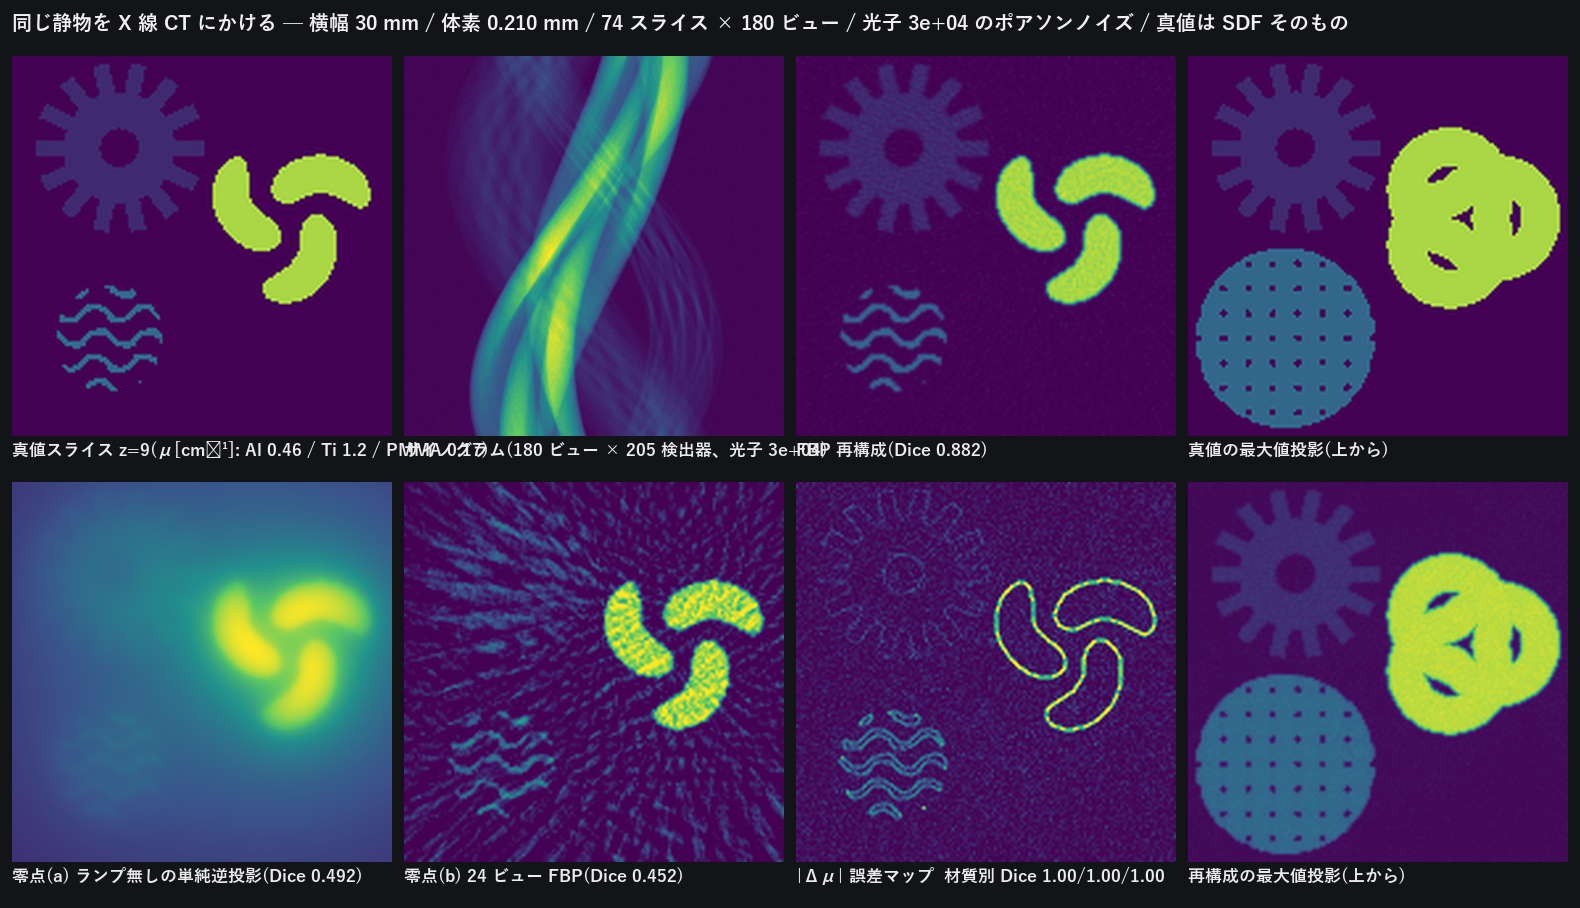
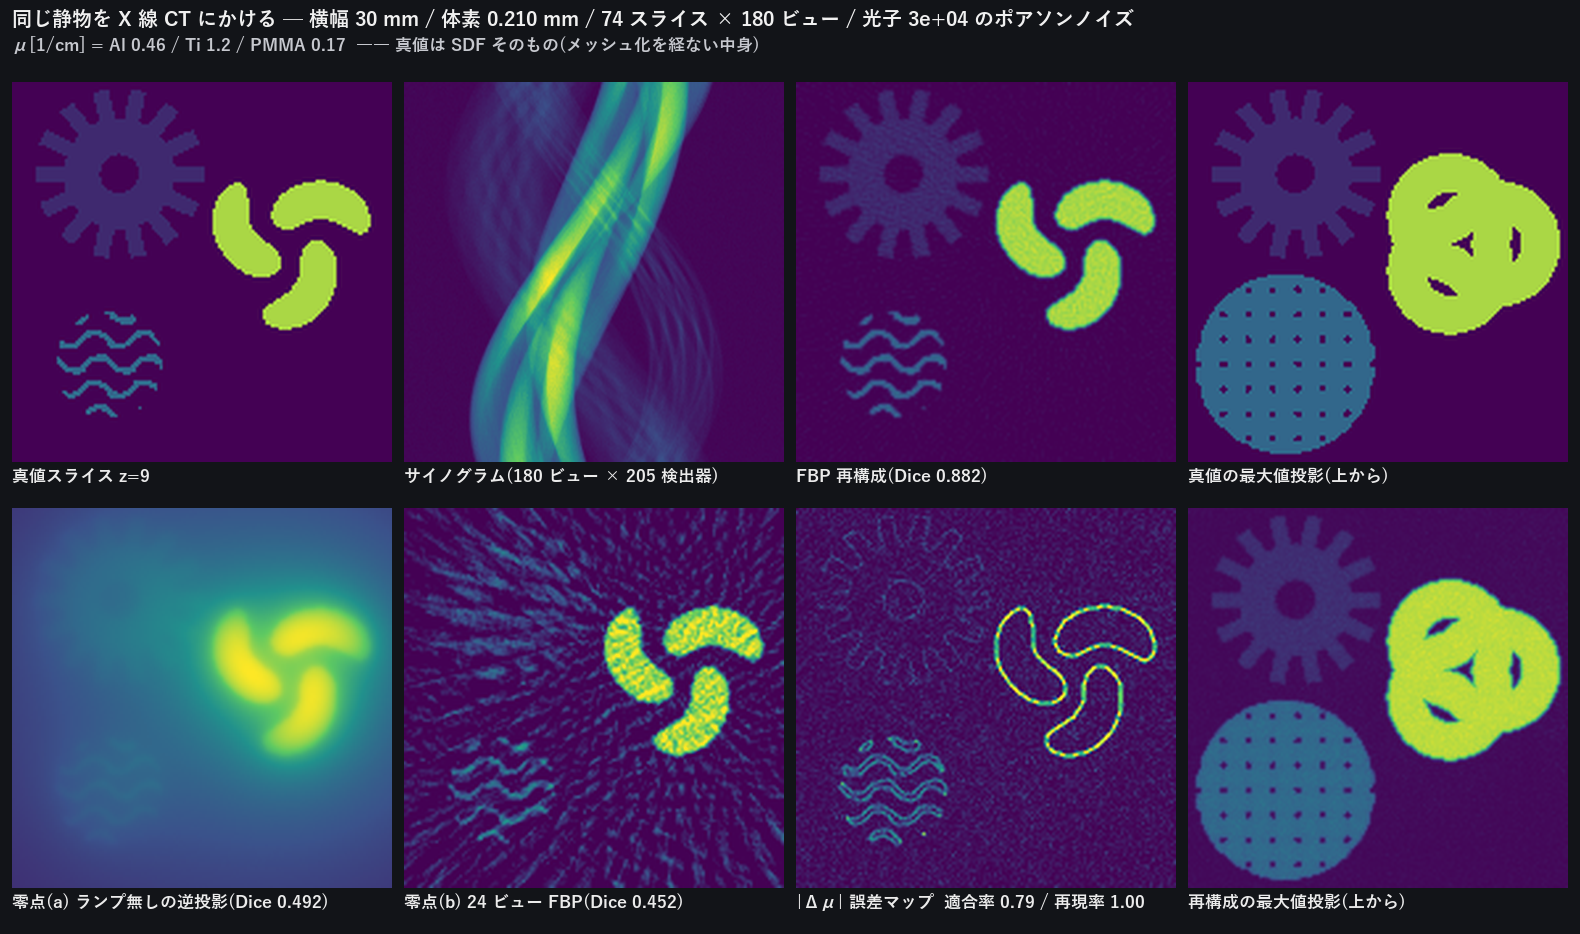
feat(article): 静物の X 線 CT — 表面の次は中身を、同じ真値で採点する
tools/gen_hero_ct.py: hero の静物を SDF から中身の詰まった減衰係数ボリュームへ戻し
(Al 0.46 / Ti 1.20 / PMMA 0.17 [1/cm]、横幅 30 mm・体素 0.210 mm)、74 スライス ×
180 ビューを radon_transform → 光子ポアソンノイズ → filtered_backprojection で
再構成し真値と照合。Dice 0.882(適合率 0.79 / 再現率 1.00)、μ 誤差 Ti 4.3% /
PMMA 6.3% / Al 16.6%(格子球の殻は局所肉厚 2.0 体素 = 部分体積効果)。零点は
単純逆投影 0.492(その手法に最も有利なしきい値)・24 ビュー FBP 0.452 で 1.8〜2.0 倍差。

教訓 2 件:
- 初回は μ を「/画素」で置き線積分 p=30 に達して exp(-p) が光子 1 個を割り、対数が
  飽和(photon starvation)。復元 μ が 50〜84% 低く、零点の方が Dice で勝った
  (0.63 対 0.43)。零点が勝ったらまず自分の物理を疑う。
- 材質別の数字は Dice ではなく再現率と明記(ラベル内しか見ないので Dice と名乗ると
  必ず 1.0 に寄る)。全体の取りこぼし/拾いすぎは precision / recall で別に出す。

ja/en 記事に図・数字・失敗の経緯を追加。生成器と図そのものは前コミット 202ee594d に
巻き込まれて入っている(git add -A のタイミング)。

Claude-Session: https://claude.ai/code/session_01Q8xXj6hpcVCJCfGLw36Z4s

diff --git a/tools/gen_hero_ct.py b/tools/gen_hero_ct.py
@@ -163,7 +163,15 @@ def main() -> int:
     d_bp = max(dice(rec_bp > c, gt) for c in cand)
     d_few = dice(rec_few > thr, gt)
     err_mu = [float(np.mean(rec[lab == i + 1]) - m) for i, m in enumerate(mus)]
-    d_mat = [dice((rec > thr) & (lab == i + 1), lab == i + 1) for i in range(len(mus))]
+    # ★材質ごとの数字は **再現率(recall)**。「その材質のラベル内で拾えた割合」であって
+    # Dice ではない(ラベルの外に出た偽陽性を数えないので、Dice と名乗ると必ず 1.0 に
+    # 近づく)。全体の取りこぼし/拾いすぎは下の precision / recall で別に出す。
+    rec_bin = rec > thr
+    d_mat = [float((rec_bin & (lab == i + 1)).sum()) / max(float((lab == i + 1).sum()), 1e-9)
+             for i in range(len(mus))]
+    tp = float((rec_bin & gt).sum())
+    prec = tp / max(float(rec_bin.sum()), 1e-9)
+    recall = tp / max(float(gt.sum()), 1e-9)
     # 各材質の「最も薄いところ」が体素いくつぶんか(分解能の限界を数字で出す)。
     # 薄い板は部分体積効果で μ が薄まる ―― バグではなく物理なので、隠さず並べる。
     from scipy import ndimage as _ndi
@@ -172,11 +180,11 @@ def main() -> int:
         m = lab == i + 1
         edt = _ndi.distance_transform_edt(m)       # 材質内の「表面までの距離」
         thin.append(2.0 * float(np.median(edt[m])))   # ×2 ≒ 局所の肉厚(体素)
-    print(f"[score] Dice 実手法 {d_real:.4f} / 単純逆投影 {d_bp:.4f}(最良しきい値)/ "
-          f"{VIEWS_FEW} ビュー {d_few:.4f}", flush=True)
+    print(f"[score] Dice 実手法 {d_real:.4f}(precision {prec:.4f} / recall {recall:.4f})"
+          f" / 単純逆投影 {d_bp:.4f}(最良しきい値)/ {VIEWS_FEW} ビュー {d_few:.4f}", flush=True)
     for nm, m, e, dm, th in zip(names, mus, err_mu, d_mat, thin):
         print(f"  {nm}: μ 真値 {m / px_cm:.3f} cm^-1 → 誤差 {e / px_cm:+.4f} "
-              f"({100 * abs(e) / m:.1f}%) / Dice {dm:.3f} / 局所肉厚 {th:.1f} 体素", flush=True)
+              f"({100 * abs(e) / m:.1f}%) / 再現率 {dm:.3f} / 局所肉厚 {th:.1f} 体素", flush=True)
     # 実手法が両方の零点を **明確に**(1.5 倍以上)上回ること。
     assert d_real > 1.5 * max(d_bp, d_few), (d_real, d_bp, d_few)
     assert d_real > 0.85, d_real
@@ -193,30 +201,31 @@ def main() -> int:
     mip_gt = mu_vol.max(axis=0)
     mip_rec = rec.max(axis=0)
     panels = [
-        (cmap(mu_vol[ks] / vmax),
-         f"真値スライス z={ks}(μ[cm⁻¹]: Al {mus_cm[0]} / Ti {mus_cm[1]} / PMMA {mus_cm[2]})"),
+        (cmap(mu_vol[ks] / vmax), f"真値スライス z={ks}"),
         (cmap((sino_show - sino_show.min()) / max(float(np.ptp(sino_show)), 1e-9)),
-         f"サイノグラム({VIEWS} ビュー × {sino_show.shape[1]} 検出器、光子 {I0:.0e})"),
+         f"サイノグラム({VIEWS} ビュー × {sino_show.shape[1]} 検出器)"),
         (cmap(rec[ks] / vmax), f"FBP 再構成(Dice {d_real:.3f})"),
         (cmap(rec_bp[ks] / max(rec_bp[ks].max(), 1e-9)),
-         f"零点(a) ランプ無しの単純逆投影(Dice {d_bp:.3f})"),
+         f"零点(a) ランプ無しの逆投影(Dice {d_bp:.3f})"),
         (cmap(rec_few[ks] / vmax), f"零点(b) {VIEWS_FEW} ビュー FBP(Dice {d_few:.3f})"),
-        (cmap(err / (0.25 * vmax)), f"|Δμ| 誤差マップ  材質別 Dice "
-                                    f"{d_mat[0]:.2f}/{d_mat[1]:.2f}/{d_mat[2]:.2f}"),
+        (cmap(err / (0.25 * vmax)), f"|Δμ| 誤差マップ  適合率 {prec:.2f} / 再現率 {recall:.2f}"),
     ]
     extra = [(cmap(mip_gt / vmax), "真値の最大値投影(上から)"),
              (cmap(mip_rec / vmax), "再構成の最大値投影(上から)")]
 
     font = ImageFont.truetype("C:/Windows/Fonts/YuGothB.ttc", 20)
     small = ImageFont.truetype("C:/Windows/Fonts/YuGothB.ttc", 17)
-    T, pad, cap, head = 380, 12, 34, 44
+    T, pad, cap, head = 380, 12, 34, 70
     cols = 4
     rows = 2
     cv = Image.new("RGB", (pad + cols * (T + pad), head + pad + rows * (T + cap + pad)), (18, 20, 24))
     dr = ImageDraw.Draw(cv)
-    dr.text((pad, 12), f"同じ静物を X 線 CT にかける — 横幅 {PART_MM:.0f} mm / 体素 {10 * px_cm:.3f} mm / "
-                       f"{nz} スライス × {VIEWS} ビュー / 光子 {I0:.0e} のポアソンノイズ / 真値は SDF そのもの",
+    dr.text((pad, 8), f"同じ静物を X 線 CT にかける — 横幅 {PART_MM:.0f} mm / 体素 {10 * px_cm:.3f} mm / "
+                      f"{nz} スライス × {VIEWS} ビュー / 光子 {I0:.0e} のポアソンノイズ",
             font=font, fill=(240, 240, 240))
+    dr.text((pad, 36), f"μ[1/cm] = Al {mus_cm[0]} / Ti {mus_cm[1]} / PMMA {mus_cm[2]}  ―― "
+                       f"真値は SDF そのもの(メッシュ化を経ない中身)",
+            font=small, fill=(198, 200, 206))
     for i, (img, c) in enumerate(panels[:3] + extra[:1] + panels[3:] + extra[1:]):
         im = Image.fromarray((np.clip(img, 0, 1) * 255 + 0.5).astype(np.uint8)).resize((T, T), Image.LANCZOS)
         x = pad + (i % cols) * (T + pad)

diff --git a/docs/articles/fullseye_overview_qiita_ja.md b/docs/articles/fullseye_overview_qiita_ja.md
@@ -69,6 +69,16 @@
 
 > 最初の実行は **RMSE 78 mm** でした。`look_at` が gluLookAt 規約（カメラは −Z を向く）で姿勢を作るのに対し、`render_mesh` はそれを (x, −y, −z) に直してから K を掛ける（＝ CV 規約）。この差を飛ばすと投影機がカメラの背後を向き、深度は**「もっともらしい大きさ」のまま全部間違う**。零点（Gray のみ 79 mm）と数字が並んで初めて気づきました ―― 零点を一緒に測っていなかったら、たぶん通していました。
 
+表面を測ったなら、次は**中**です。同じ静物を**X 線 CT** にかけます。SDF から中身の詰まった減衰係数ボリューム（材質 3 種）を作り、スライスごとに `radon_transform` で平行ビーム投影 → **光子数のポアソンノイズ**を載せる → `filtered_backprojection` で再構成 → 真値と突き合わせます：
+
+![静物の X 線 CT: 真値スライス / サイノグラム / FBP / 単純逆投影 / 24 ビュー / 誤差 / 最大値投影](https://raw.githubusercontent.com/furuse-kazufumi/fullseye/master/docs/articles/assets/hero_ct.png?v=1)
+
+横幅 30 mm・体素 0.210 mm・74 スライス × 180 ビュー。**Dice 0.882（適合率 0.79 / 再現率 1.00）**、μ の復元誤差は Ti 4.3% / PMMA 6.3% / Al 16.6%。零点はランプフィルタ無しの単純逆投影 0.492（その手法に最も有利なしきい値で採点）、24 ビュー FBP 0.452 で、実手法が **1.8〜2.0 倍**上回ります。
+
+正直な内訳を 2 つ: (1) 取りこぼしはほぼゼロ（再現率 1.00）で、Dice を下げているのは**拾いすぎ**（適合率 0.79）です。二値化しきい値を最も薄い材質 PMMA の半分に置くので、再構成ノイズも一緒に拾います。(2) Al だけ μ が 16.6% 低いのは、格子球の殻が**局所肉厚 2.0 体素**しかないから ―― 部分体積効果であってバグではありません（Ti は 4.9 体素で 4.3%、PMMA は 4.0 体素で 6.3%）。
+
+> ここでも一度転びました。最初は μ を 0.55〜1.0「/画素」で置いてしまい、線積分 p が 30 に達して **exp(−p) が光子 1 個を割り**、対数が飽和（photon starvation）。復元 μ が 50〜84% 低く出て、**零点の単純逆投影の方が Dice で勝ってしまった**（0.63 対 0.43）。零点が実手法に勝ったら、まず自分の物理を疑う ―― μ を実材質の値（1/cm）と体素の物理サイズから決め直したら最大 p は 1.46 に収まりました。
+
 鏡面反射・ガラスの屈折・CD のような回折の虹色・ヘアライン（異方性ハイライト）は**まだ出せません**（このレンダラはラスタライザで、反射・屈折にはレイトレーシングが要ります）。次の材質拡張として予告しておきます。
 
 

diff --git a/docs/articles/fullseye_overview_qiita_en.md b/docs/articles/fullseye_overview_qiita_en.md
@@ -69,6 +69,16 @@ The runnable sample is `examples_3d/structured_light_scan.py` (sphere + step box
 
 > The first run gave **RMSE 78 mm**. `look_at` builds poses in the gluLookAt convention (camera looks down −Z), while `render_mesh` converts that to (x, −y, −z) before applying K (the CV convention). Skip the difference and the projector ends up facing behind the camera — the depths stay **plausibly sized and entirely wrong**. I only noticed because the null (Gray only, 79 mm) landed on the same number. Without measuring the null alongside, I would probably have shipped it.
 
+Having measured the surface, the next question is what is **inside**. The same still life goes through an **X-ray CT**: a solid attenuation volume is built from the SDFs (three materials), each slice is projected with `radon_transform`, **photon-counting Poisson noise** is applied, and `filtered_backprojection` reconstructs it — then it is scored against the truth:
+
+![X-ray CT of the still life: truth slice / sinogram / FBP / plain back-projection / 24 views / error / MIP](https://raw.githubusercontent.com/furuse-kazufumi/fullseye/master/docs/articles/assets/hero_ct.png?v=1)
+
+30 mm wide, 0.210 mm voxels, 74 slices × 180 views. **Dice 0.882 (precision 0.79 / recall 1.00)**, with μ recovered to 4.3% (Ti), 6.3% (PMMA) and 16.6% (Al). The nulls — unfiltered back-projection at 0.492 (scored at the threshold most favourable to *it*) and 24-view FBP at 0.452 — are beaten by **1.8–2.0x**.
+
+Two honest breakdowns: (1) almost nothing is missed (recall 1.00); what costs Dice is **over-picking** (precision 0.79), because the binarisation threshold is set at half of the *weakest* material (PMMA) and therefore also catches reconstruction noise. (2) Al is the only μ off by 16.6%, because the gyroid shell is just **2.0 voxels thick locally** — partial-volume averaging, not a bug (Ti is 4.9 voxels at 4.3%, PMMA 4.0 voxels at 6.3%).
+
+> This one fell over too. The first version put μ at 0.55–1.0 *per pixel*, so line integrals reached p = 30, **exp(−p) dropped below a single photon** and the logarithm saturated (photon starvation). Recovered μ came out 50–84% low and **the null — plain back-projection — beat the real method on Dice** (0.63 vs 0.43). When a null beats your method, suspect your physics first: re-deriving μ from real material values (1/cm) and the physical voxel size brought the maximum p down to 1.46.
+
 Mirror reflections, glass refraction, CD-like diffraction rainbows and brushed-metal (anisotropic) highlights are **not possible yet** — this is a rasteriser; reflection and refraction need ray tracing. Consider it the announced next material extension.
 
 ---

diff --git a/CHANGELOG.md b/CHANGELOG.md
@@ -5,6 +5,16 @@ Versions follow the git tags; a tag push publishes to PyPI (`.github/workflows/r
 
 ## 0.1.6 — unreleased
 
+- **静物の X 線 CT(記事図)**: `tools/gen_hero_ct.py` — hero の静物を SDF から**中身の詰まった
+  減衰係数ボリューム**(Al 0.46 / Ti 1.20 / PMMA 0.17 [1/cm]、横幅 30 mm・体素 0.210 mm)に
+  戻し、74 スライス × 180 ビューを `radon_transform` → 光子ポアソンノイズ →
+  `filtered_backprojection` で再構成 → 真値と照合。**Dice 0.882(適合率 0.79 / 再現率 1.00)**、
+  μ 誤差 Ti 4.3% / PMMA 6.3% / Al 16.6%(格子球の殻は局所肉厚 2.0 体素 = 部分体積効果)。
+  零点は単純逆投影 0.492(その手法に最も有利なしきい値)・24 ビュー FBP 0.452 で 1.8〜2.0 倍差。
+  ★教訓: 初回は μ を「/画素」で置いて線積分 p=30 に達し、exp(-p) が光子 1 個を割って
+  **対数が飽和**(photon starvation)。復元 μ が 50〜84% 低く、**零点の方が Dice で勝った**
+  (0.63 対 0.43)。零点が勝ったらまず自分の物理を疑う。材質別の数字は Dice ではなく
+  **再現率**(ラベル内しか見ないので Dice と名乗ると必ず 1.0 に寄る)と明記した。
 - **構造化光スキャナを閉ループで組めるようにした(新 op 2 件)**: `fringe.absolute_phase`
   (巻き込み位相 + 粗い絶対推定 → 画素ごとに 2π 次数を確定。空間アンラップと違い島に分かれた
   場面でも絶対、要件は「粗推定の誤差 < π」)と `fringe.triangulate_column`(投影機コラム番号 →
